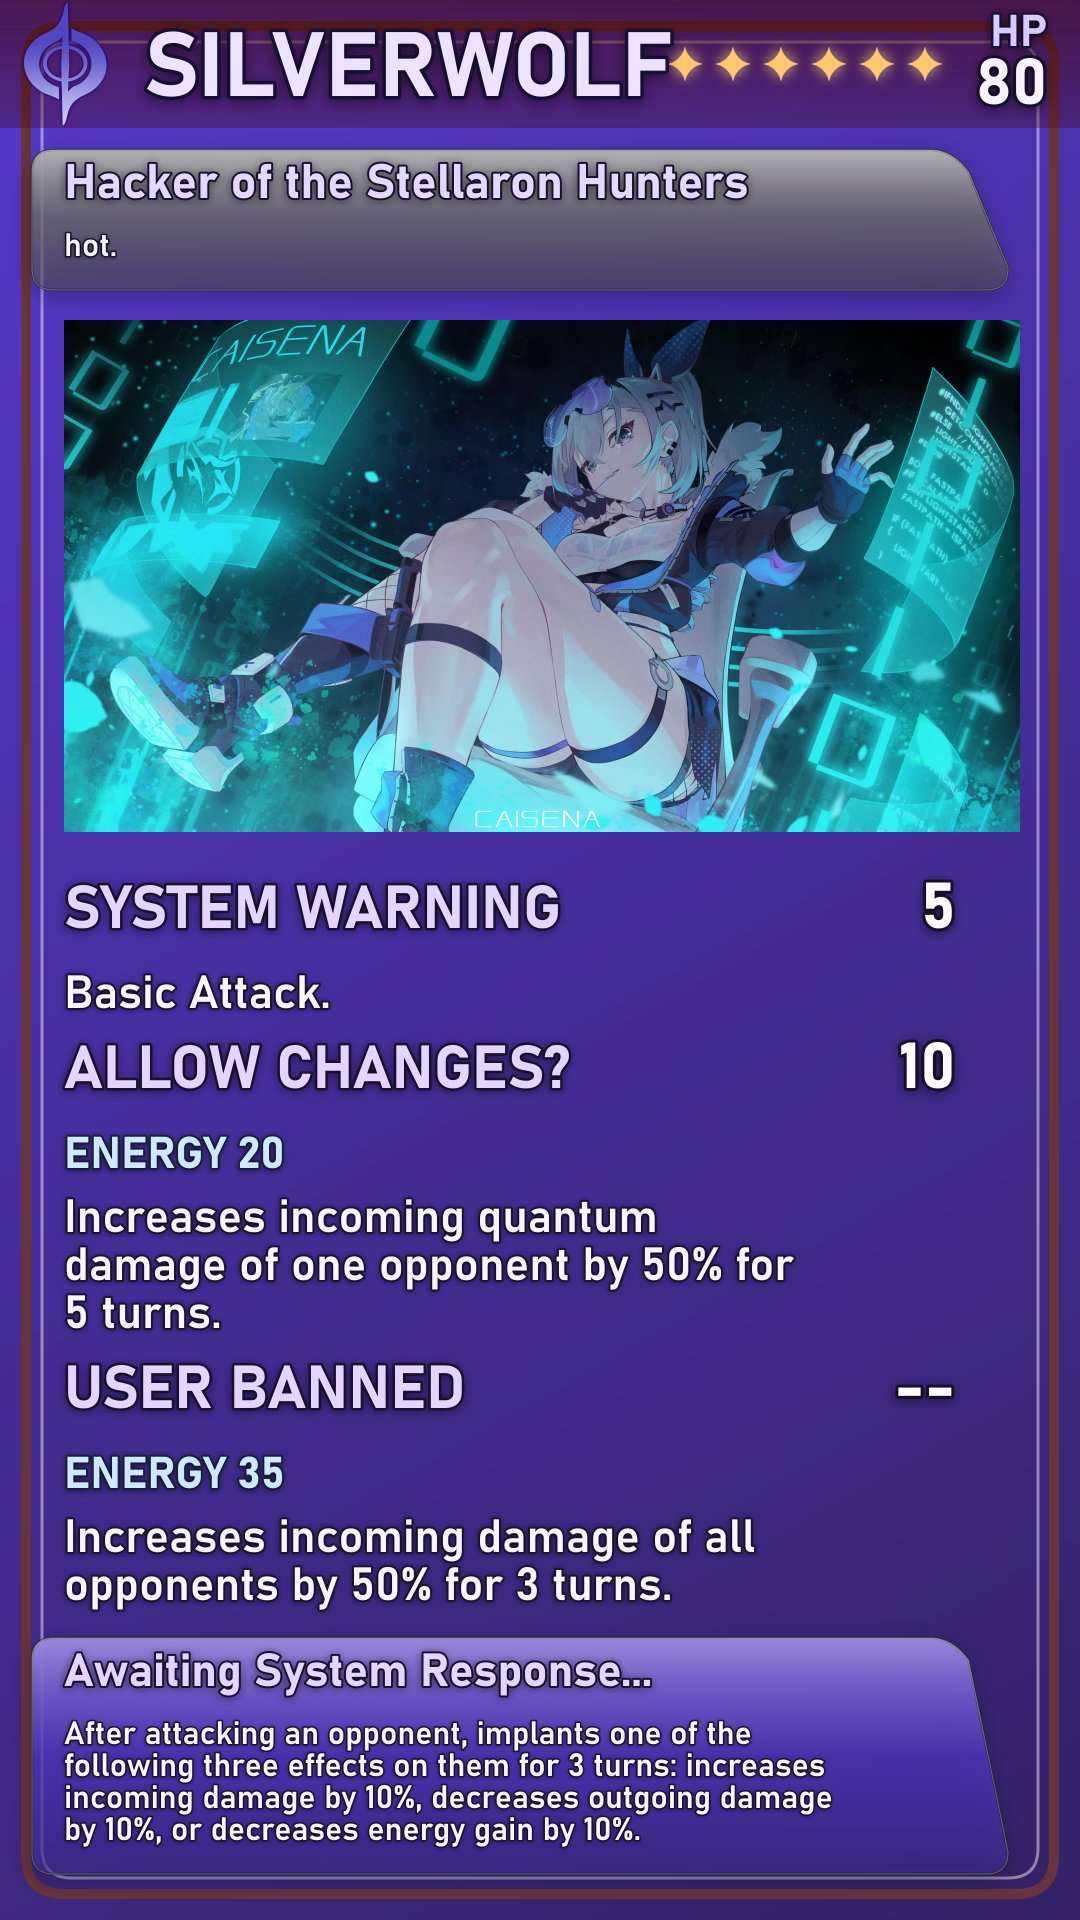
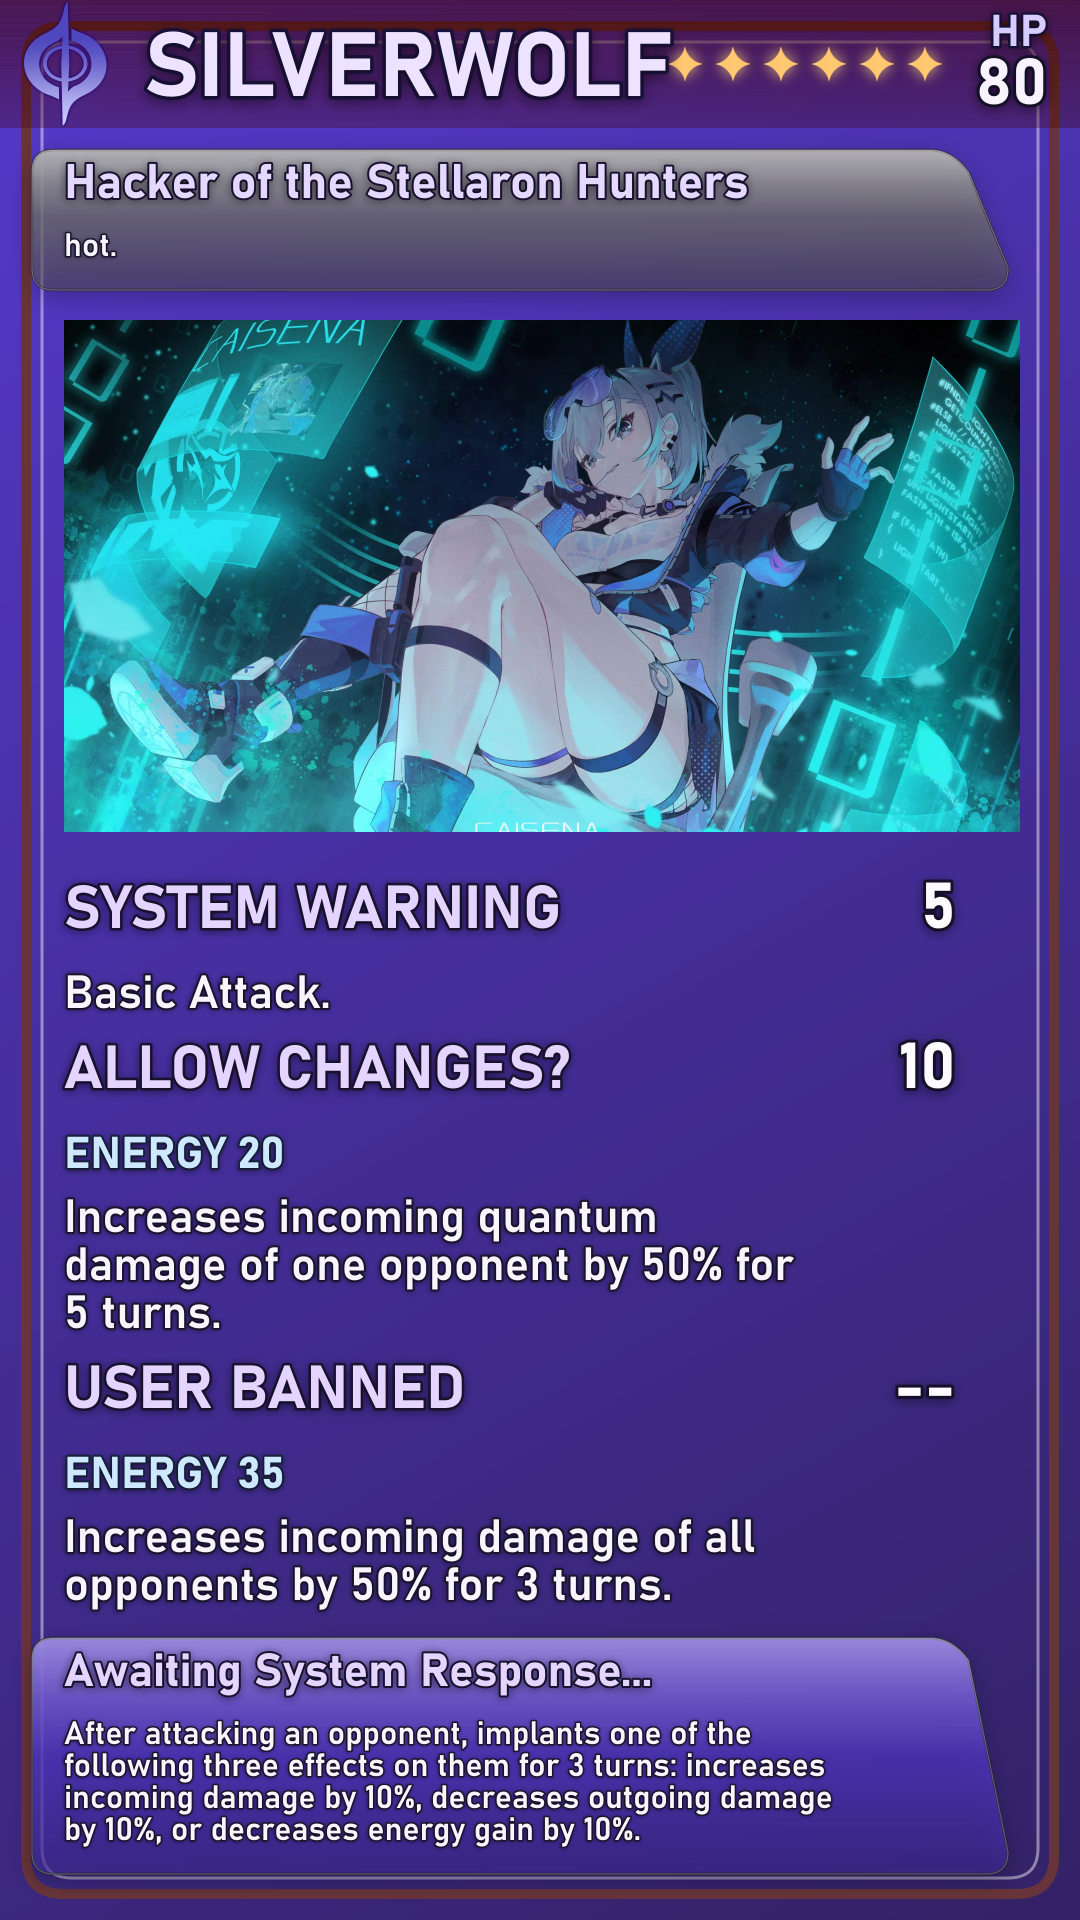
feat[card]: more image options (crop, add background, etc)

Changed region(s): [[0.0611, 0.25, 0.9472, 0.4375], [0.4278, 0.1562, 0.9472, 0.2812], [0.0611, 0.1562, 0.4889, 0.2812]]

diff --git a/tcg/characters.ts b/tcg/characters.ts
@@ -11,6 +11,7 @@ import {
   createAbilityEffect,
   createSimpleBackground,
 } from './characterBuilder';
+import { ImagePanelMode } from './imagePanel';
 
 /**
  * A list of all characters in the game
@@ -41,6 +42,8 @@ const FAIRY_TEXT_COLORS = {
   abilityDescStroke: '#221824',
 };
 
+const FAIRY_ABILITY_PANEL_COLOR = '#D5ABB2';
+
 const QUANTUM_TEXT_COLORS = {
   nameFill: '#EDE2FF',
   nameStroke: '#1A123A',
@@ -66,6 +69,8 @@ const QUANTUM_TEXT_COLORS = {
   abilityDescStroke: '#1A1730',
 };
 
+const QUANTUM_ABILITY_PANEL_COLOR = '#5539CC';
+
 export const KAITLIN = createCharacter({
   name: 'Kaitlin',
   title: 'Herrscher of Egg',
@@ -73,7 +78,10 @@ export const KAITLIN = createCharacter({
   rarity: 6,
   hp: 100,
   element: Element.Fairy,
-  image: './tcg/assets/characters/kaitlin.png',
+  imagePanel: {
+    imagePath: './tcg/assets/characters/kaitlin.png',
+    mode: ImagePanelMode.Crop,
+  },
   background: createSimpleBackground('#D5ABB2', '#B76E79'),
   textColors: FAIRY_TEXT_COLORS,
   skills: [
@@ -112,7 +120,7 @@ export const KAITLIN = createCharacter({
     createAbility({
       name: 'Coincidence? I Think Not.',
       description: 'Deals 15/40% more damage when there are 1/2 allies with name starting in "V".',
-      panelColor: '#D5ABB2',
+      panelColor: FAIRY_ABILITY_PANEL_COLOR,
       effects: [
         createAbilityEffect({
           range: RangeType.Self,
@@ -151,7 +159,9 @@ export const VENFEI = createCharacter({
   rarity: 6,
   hp: 80,
   element: Element.Fairy,
-  image: '',
+  imagePanel: {
+    mode: ImagePanelMode.None,
+  },
   background: createSimpleBackground('#D5ABB2', '#B76E79'),
   textColors: FAIRY_TEXT_COLORS,
   skills: [
@@ -189,7 +199,11 @@ export const EI = createCharacter({
   rarity: 6,
   hp: 100,
   element: Element.Quantum,
-  image: '',
+  imagePanel: {
+    mode: ImagePanelMode.Background,
+    backgroundColor: '#49497d',
+    imagePath: './tcg/assets/characters/ei.png',
+  },
   background: createSimpleBackground('#5539CC', '#332266'),
   textColors: QUANTUM_TEXT_COLORS,
   skills: [
@@ -223,6 +237,7 @@ export const EI = createCharacter({
     createAbility({
       name: 'I love all my quantum girls',
       description: 'Deals 15/40% more damage when there are 1/2 quantum allies',
+      panelColor: QUANTUM_ABILITY_PANEL_COLOR,
       effects: [
         createAbilityEffect({
           range: RangeType.Self,
@@ -260,7 +275,10 @@ export const SILVERWOLF = createCharacter({
   rarity: 6,
   hp: 80,
   element: Element.Quantum,
-  image: './tcg/assets/characters/silverwolf.jpg',
+  imagePanel: {
+    imagePath: './tcg/assets/characters/silverwolf.jpg',
+    mode: ImagePanelMode.Crop,
+  },
   background: createSimpleBackground('#5539CC', '#332266'),
   textColors: QUANTUM_TEXT_COLORS,
   skills: [
@@ -344,7 +362,7 @@ export const SILVERWOLF = createCharacter({
       return createAbility({
         name: 'Awaiting System Response...',
         description: "After attacking an opponent, implants one of the following three effects on them for 3 turns: increases incoming damage by 10%, decreases outgoing damage by 10%, or decreases energy gain by 10%.",
-        panelColor: '#5539CC',
+        panelColor: QUANTUM_ABILITY_PANEL_COLOR,
         effects: [
           createAbilityEffect({
             range: RangeType.SingleOpponent,
@@ -395,7 +413,9 @@ export const SPARKLE = createCharacter({
   rarity: 6,
   hp: 80,
   element: Element.Quantum,
-  image: '',
+  imagePanel: {
+    mode: ImagePanelMode.None,
+  },
   background: createSimpleBackground('#5539CC', '#332266'),
   textColors: QUANTUM_TEXT_COLORS,
   skills: [
@@ -446,6 +466,7 @@ export const SPARKLE = createCharacter({
     createAbility({
       name: 'Red Herring',
       description: 'Increases energy gain of all allies by 20%.',
+      panelColor: QUANTUM_ABILITY_PANEL_COLOR,
       effects: [
         createAbilityEffect({
           range: RangeType.AllAllies,

diff --git a/tcg/imagePanel.ts b/tcg/imagePanel.ts
@@ -1,0 +1,106 @@
+import Canvas from 'canvas';
+import { DrawableBlock } from './interfaces/drawable';
+
+export enum ImagePanelMode {
+  None = 'none', // Do not draw any image, only the panel background
+  Stretch = 'stretch', // Stretch the image to fill the panel, not preserving the aspect ratio
+  Crop = 'crop', // Crop the image to fill the panel, preserving the aspect ratio
+  Background = 'background', // Preserve the aspect ratio and let the side areas show the panel background
+}
+
+export interface ImagePanelOptions {
+  mode?: ImagePanelMode;
+  x?: number;
+  width?: number;
+  height?: number;
+  spacingAfter?: number;
+  backgroundColor?: string;
+}
+
+/**
+ * Draws the character art panel with configurable aspect-ratio behavior.
+ */
+export class ImagePanel implements DrawableBlock {
+  imagePath: string;
+  mode: ImagePanelMode;
+  x: number;
+  width: number;
+  height: number;
+  spacingAfter: number;
+  backgroundColor: string;
+
+  constructor(imagePath: string = '', options: ImagePanelOptions = {}) {
+    this.imagePath = imagePath || '';
+    this.mode = options.mode || ImagePanelMode.Crop;
+    this.x = options.x ?? 64;
+    this.width = options.width ?? 956;
+    this.height = options.height ?? 512;
+    this.spacingAfter = options.spacingAfter ?? 96;
+    this.backgroundColor = options.backgroundColor || '#000000';
+  }
+
+  async draw(ctx: Canvas.CanvasRenderingContext2D, y: number): Promise<number> {
+    const top = y;
+
+    // Base panel background used by contain mode and as a safe fallback.
+    ctx.fillStyle = this.backgroundColor;
+    ctx.fillRect(this.x, top, this.width, this.height);
+
+    if (this.mode === ImagePanelMode.None || !this.imagePath) {
+      return top + this.height + this.spacingAfter;
+    }
+
+    try {
+      const image = await Canvas.loadImage(this.imagePath);
+      const imageRatio = image.width / image.height;
+      const panelRatio = this.width / this.height;
+
+      switch (this.mode) {
+        case ImagePanelMode.Stretch:
+          ctx.drawImage(image, this.x, top, this.width, this.height);
+          return top + this.height + this.spacingAfter;
+        case ImagePanelMode.Crop: {
+          let sx = 0;
+          let sy = 0;
+          let sWidth = image.width;
+          let sHeight = image.height;
+
+          if (imageRatio > panelRatio) {
+            // Source is wider than target: crop left/right.
+            sWidth = image.height * panelRatio;
+            sx = (image.width - sWidth) / 2;
+          } else {
+            // Source is taller than target: crop top/bottom.
+            sHeight = image.width / panelRatio;
+            sy = (image.height - sHeight) / 2;
+          }
+
+          ctx.drawImage(image, sx, sy, sWidth, sHeight, this.x, top, this.width, this.height);
+          return top + this.height + this.spacingAfter;
+        }
+        case ImagePanelMode.Background:
+        default: {
+          // Background mode: preserve aspect ratio and let side areas show panel background.
+          let drawWidth = this.width;
+          let drawHeight = this.height;
+          let dx = this.x;
+          let dy = top;
+
+          if (imageRatio > panelRatio) {
+            drawHeight = this.width / imageRatio;
+            dy = top + ((this.height - drawHeight) / 2);
+          } else {
+            drawWidth = this.height * imageRatio;
+            dx = this.x + ((this.width - drawWidth) / 2);
+          }
+
+          ctx.drawImage(image, dx, dy, drawWidth, drawHeight);
+        }
+      }
+    } catch (error) {
+      console.warn(`Image not found for panel: ${this.imagePath}`);
+    }
+
+    return top + this.height + this.spacingAfter;
+  }
+}

diff --git a/tcg/character.ts b/tcg/character.ts
@@ -9,6 +9,7 @@ import { Card } from './interfaces/card';
 import { Element } from './element';
 import { drawTcgText } from './utils/tcgTextStyle';
 import { CharacterTextColors, resolveCharacterTextColors } from './textTheme';
+import { ImagePanel } from './imagePanel';
 
 /**
  * A single character card and their stats
@@ -17,7 +18,7 @@ import { CharacterTextColors, resolveCharacterTextColors } from './textTheme';
  * @param rarity - The rarity of the character
  * @param hp - Max HP of the character
  * @param element - The type/element of the character
- * @param image - Character image used for generating the card
+ * @param imagePanel - Character image panel used for generating the card
  * @param background - Background used for generating the card
  * @param skills - A list of skills the character can use
  * @param abilities - A list of passive abilities the character has
@@ -29,20 +30,20 @@ export class Character implements Card {
   rarity: Rarity;
   hp: number;
   element: Element;
-  image: string;
+  imagePanel: ImagePanel;
   background: Background;
   skills: Skill[];
   abilities: Ability[];
   defaultActiveSkillIndices?: number[];
   textColors: CharacterTextColors;
 
-  constructor(name: string, titleDesc: TitleDesc, rarity: Rarity, hp: number, element: Element, image: string, background: Background, skills: Skill[] = [], abilities: Ability[] = [], defaultActiveSkillIndices?: number[], textColors?: Partial<CharacterTextColors>) {
+  constructor(name: string, titleDesc: TitleDesc, rarity: Rarity, hp: number, element: Element, imagePanel: ImagePanel, background: Background, skills: Skill[] = [], abilities: Ability[] = [], defaultActiveSkillIndices?: number[], textColors?: Partial<CharacterTextColors>) {
     this.name = name;
     this.titleDesc = titleDesc;
     this.rarity = rarity;
     this.hp = hp;
     this.element = element;
-    this.image = image;
+    this.imagePanel = imagePanel;
     this.background = background;
     this.skills = skills;
     this.abilities = abilities;
@@ -101,14 +102,7 @@ export class Character implements Card {
 
     let currentY = await this.titleDesc.draw(ctx, 192, this.textColors);
 
-    // Draw image and background
-    ctx.fillStyle = '#000000';
-    ctx.fillRect(64, currentY, 956, 512);
-
-    const image = await Canvas.loadImage(this.image);
-    ctx.drawImage(image, 64, currentY, 956, 512);
-
-    currentY += 512 + 96;
+    currentY = await this.imagePanel.draw(ctx, currentY);
 
     for (const skill of this.skills) {
       currentY = await skill.draw(ctx, currentY, this.textColors);

diff --git a/tcg/characterBuilder.ts b/tcg/characterBuilder.ts
@@ -14,6 +14,11 @@ import { EffectType } from './effectType';
 import { RangeType } from './rangeType';
 import { Element } from './element';
 import { CharacterTextColors } from './textTheme';
+import { ImagePanel, ImagePanelOptions } from './imagePanel';
+
+export interface CharacterImagePanelConfig extends ImagePanelOptions {
+  imagePath?: string;
+}
 
 /**
  * Helper to create a character with named parameters for better readability
@@ -26,7 +31,7 @@ export function createCharacter(params: {
   rarity: number;
   hp: number;
   element: Element;
-  image: string;
+  imagePanel: CharacterImagePanelConfig;
   background?: Background;
   skills?: Skill[];
   abilities?: Ability[];
@@ -47,7 +52,7 @@ export function createCharacter(params: {
     new Rarity(params.rarity),
     params.hp,
     params.element,
-    params.image,
+    new ImagePanel(params.imagePanel.imagePath, params.imagePanel),
     background,
     params.skills || [],
     params.abilities || [],

diff --git a/tcg/tests/testGenerateCard.ts b/tcg/tests/testGenerateCard.ts
@@ -1,13 +1,12 @@
 import fs from 'fs';
-import { KAITLIN, SILVERWOLF } from '../characters';
+import { CHARACTERS } from '../characters';
 
 async function testGenerateCard() {
-  const canvas = await KAITLIN.generateCard();
-  const buffer = canvas.toBuffer('image/png') as Buffer;
-  fs.writeFileSync('./tcg/assets/cards/kaitlin.png', buffer);
-  const canvas2 = await SILVERWOLF.generateCard();
-  const buffer2 = canvas2.toBuffer('image/png') as Buffer;
-  fs.writeFileSync('./tcg/assets/cards/silverwolf.png', buffer2);
+  for (const character of CHARACTERS) {
+    const canvas = await character.generateCard();
+    const buffer = canvas.toBuffer('image/png') as Buffer;
+    fs.writeFileSync(`./tcg/assets/cards/${character.name.toLowerCase().replace(/\s+/g, '_')}.png`, buffer);
+  }
 }
 
 testGenerateCard().catch((error) => {

diff --git a/tcg/titleDesc.ts b/tcg/titleDesc.ts
@@ -44,7 +44,7 @@ export class TitleDesc implements DrawableBlock {
     const descHeight = calculateWrappedTextHeight(descLines, descLineHeight);
     const totalTextHeight = topTextPadding + titleHeight + titleToDescSpacing + descHeight;
 
-    // Trapezium dimensions (tuned for a softer, more polished panel shape)
+    // Trapezium dimensions
     const trapeziumHeight = Math.max(104, totalTextHeight + 44);
     const trapeziumTopWidth = maxTextWidth + 120;
     const trapeziumBottomWidth = trapeziumTopWidth + 56;
